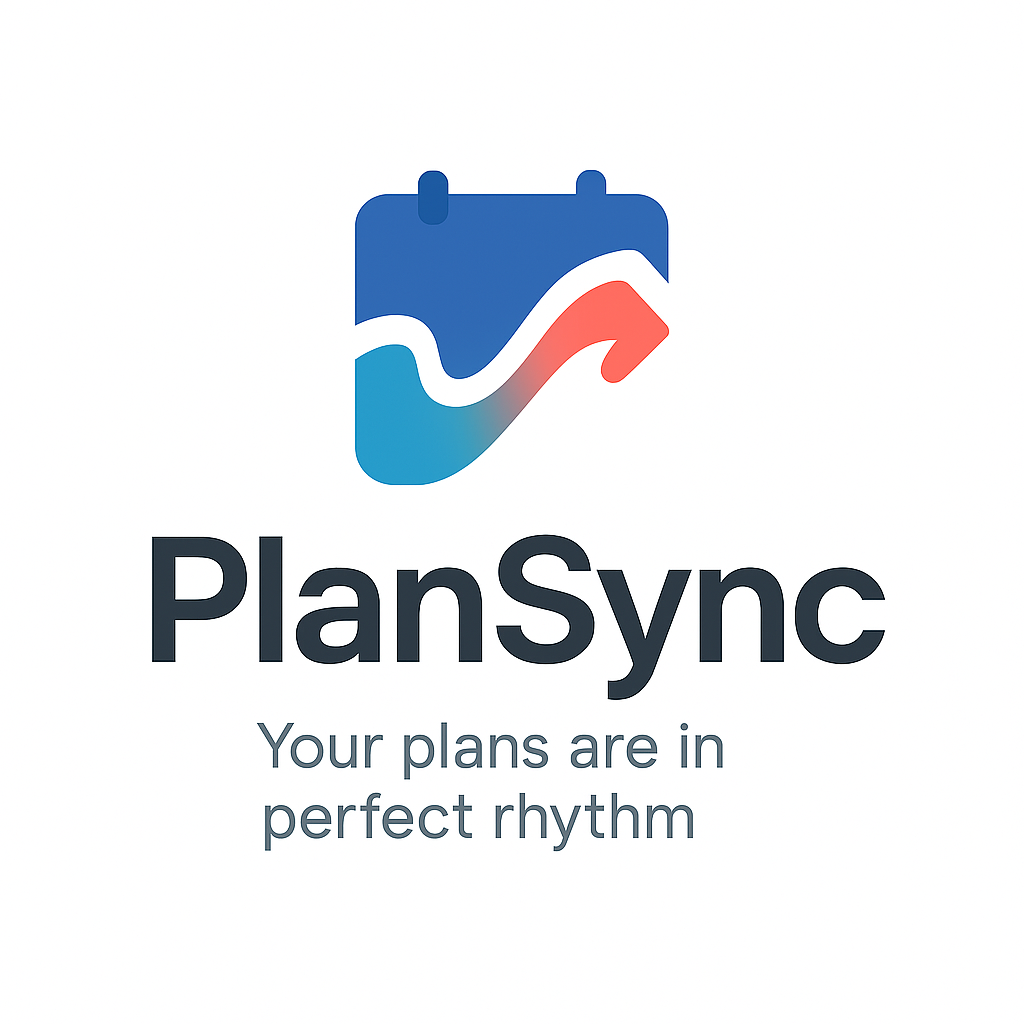
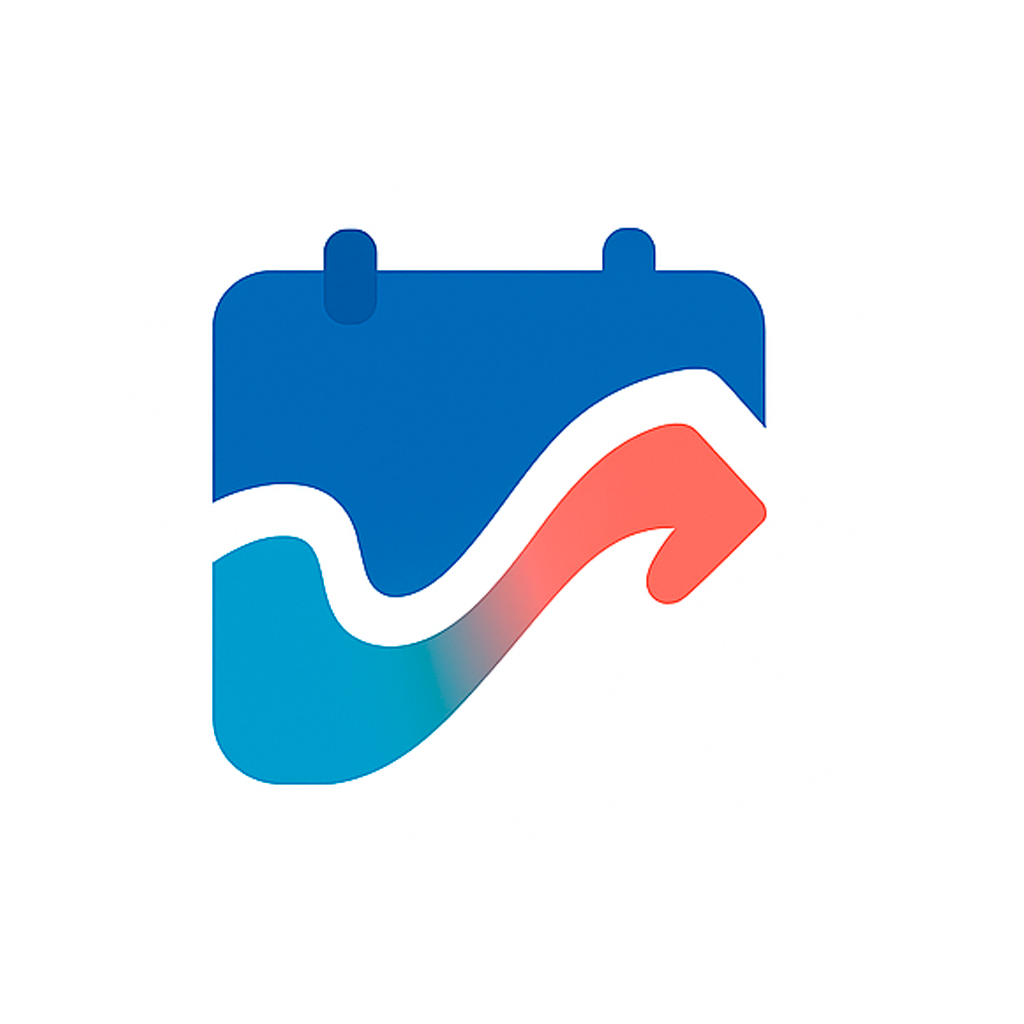
Update page and images

Changed region(s): [[0.125, 0.1562, 0.875, 0.8438]]

diff --git a/app/page.tsx b/app/page.tsx
@@ -162,13 +162,13 @@ export default function Home() {
       title: "PlanSync",
       bg: "#FEFFFE",
       textColor: "black",
-      logo: "/plansync.png",
+      logo: "/plan.png",
       slides: [
         {
           title: "PlanSync",
           bg: "#FEFFFE",
           textColor: "black",
-          logo: "/plansync.png",
+          logo: "/plan.png",
           description: "Экосистема для планирования, которая соединяет магию бумажного дневника с мощью цифрового приложения.\n\nПроект создан для тех, кто ценит тактильность и фокус рукописных записей, но не хочет терять преимущества цифровой синхронизации и гибкой организации.\n\nВаши планы — в идеальном ритме.",
           tagline: "Ваши планы — в идеальном ритме",
           link: "https://plansync.ru",
